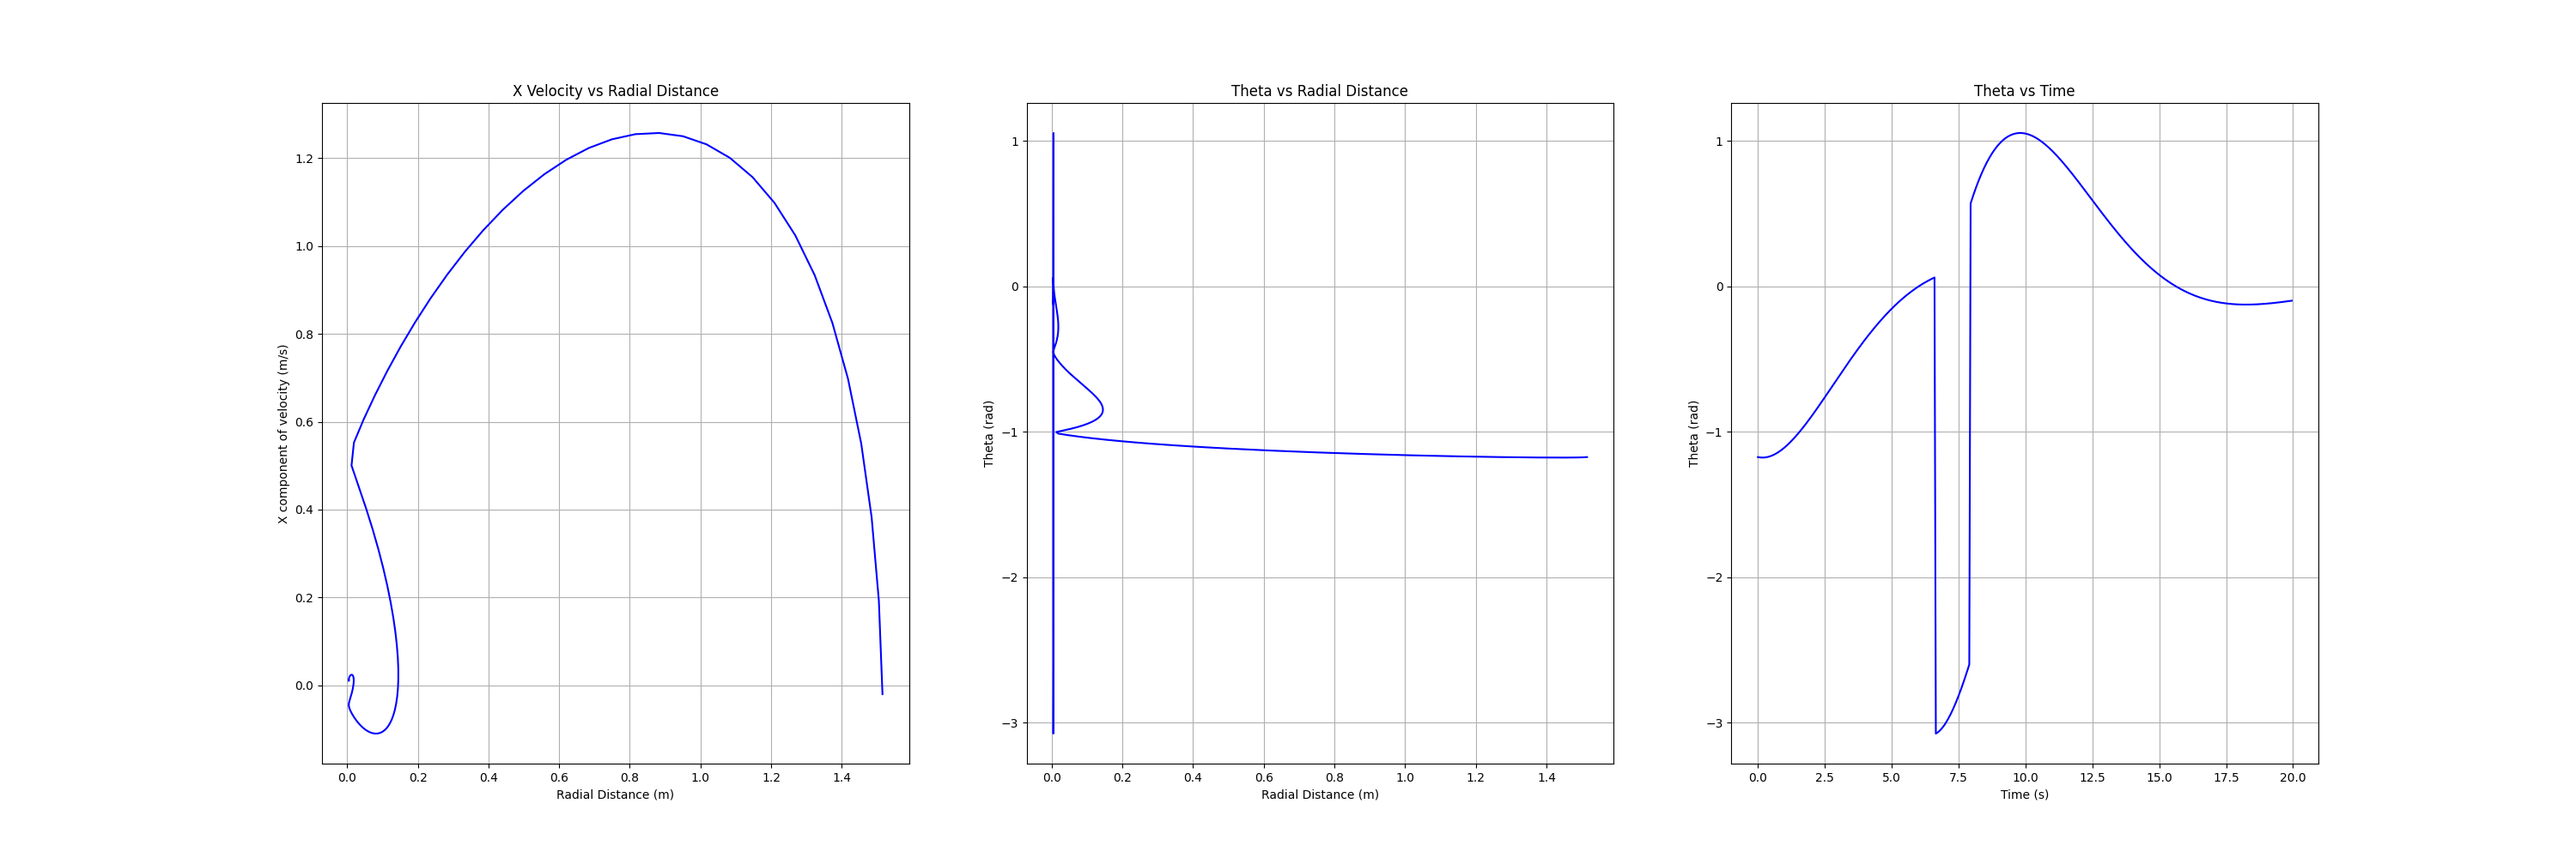
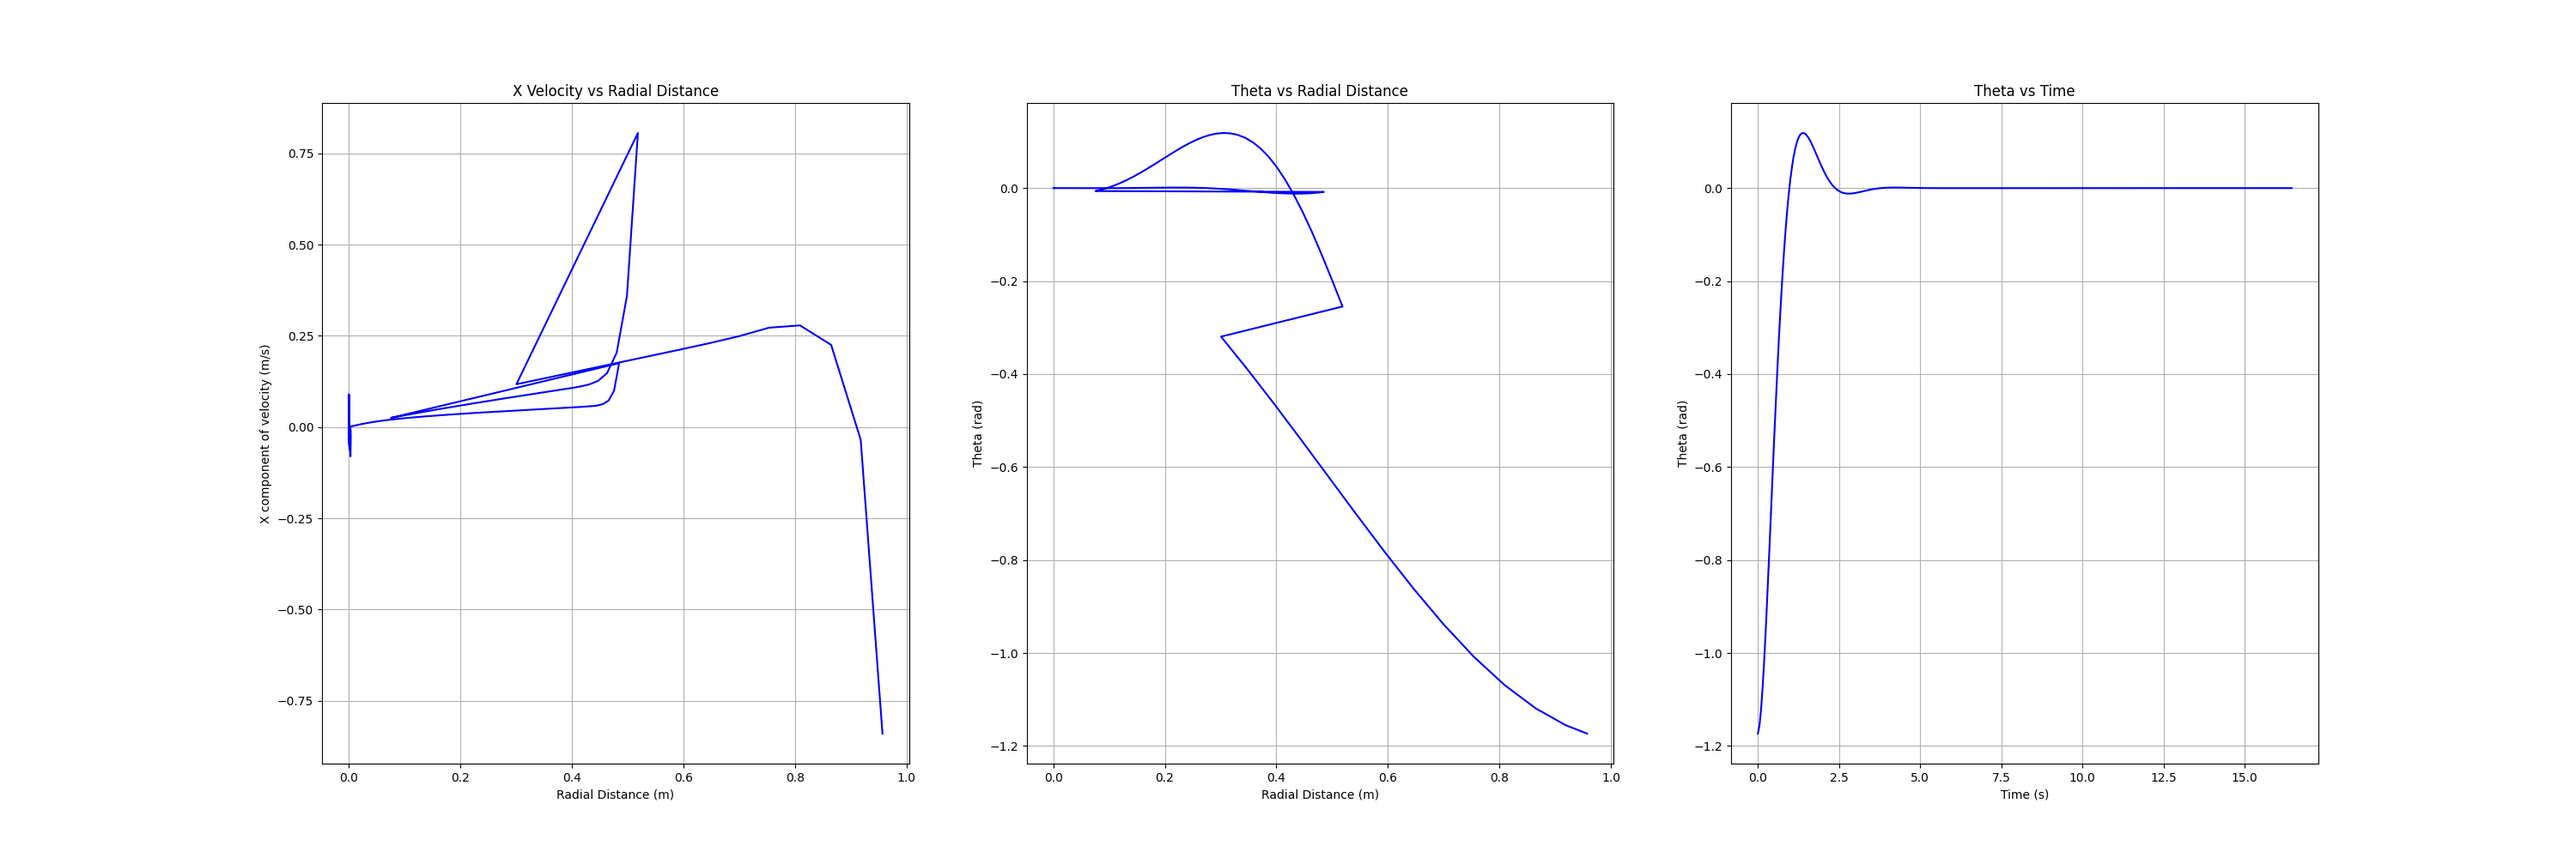
final LEOHAckk

diff --git a/team/team_controller.py b/team/team_controller.py
@@ -1,4 +1,4 @@
-## Controller choice --> 'PID', 'RL'
+## Controller choice --> 'PID', 'RL', 'MPC'
 controller_choice = 'PID'
 
 from sat_controller import SatControllerInterface, sat_msgs
@@ -125,12 +125,12 @@ class TeamController(SatControllerInterface):
         ### Control     U = [F_x, F_y, tau]
 
         # Gain Dims = [6 states x 3 outputs]
-        K_P = np.array([[-3, 0, 0, -2, 0, 0],           [0, -3, 0, 0, -2, 0],               [0, 0, -0.2, 0, 0, -0.5]])
-        K_I = np.array([[0.001, 0, 0, 0.001, 0, 0],     [0, 0.001, 0, 0, 0.001, 0],         [0, 0, 0, 0, 0, 0]])
-        K_D = np.array([[0, 0, 0, 0, 0, 0],             [0, 0, 0, 0 ,0 ,0],                 [0, 0, 0, 0 ,0 ,0]])
+        K_P = np.array([[-5, 0, 0, -15, 0, 0],          [0, -5, 0, 0, -15, 0],             [0, 0, -7, 0, 0, -3]])
+        K_I = np.array([[-1, 0, 0, -1, 0, 0],         [0, -1, 0, 0, -1, 0],                  [0, 0, 0.0, 0, 0, 0]])
+        K_D = np.array([[0, 0, 0, 0, 0, 0],             [0, 0, 0, 0 , 0, 0],                 [0, 0, 0, 0 ,0 ,0]])
 
         pid_params =  {"p_gain": K_P, "i_gain": K_I, "d_gain": K_D,
-                                "antiwindup": False, "max_error_integral": 1.0}
+                                "antiwindup": True, "max_error_integral": 0.5}
 
         self.controller = PID(pid_params)
         self.dt = 0.05
@@ -180,6 +180,11 @@ class TeamController(SatControllerInterface):
         vy_target       = dead_vy
         omega_target    = dead_omega
 
+        # Distance to dead satellite
+        dist2dead       = np.sqrt( (satellite_state.pose.x - dead_x)**2 + (satellite_state.pose.y - dead_y)**2 )
+
+        # v
+
         # Errors
         x_error         = satellite_state.pose.x        - x_target
         y_error         = satellite_state.pose.y        - y_target        
@@ -194,53 +199,99 @@ class TeamController(SatControllerInterface):
                          f' x_error = {x_error},         y_error = {y_error}'
                          f' vx_error = {vx_error},       vy_error = {vy_error}')
 
-        self.RLstate    = error = np.array([x_error, y_error, theta_error, vx_error, vy_error, omega_error])
-
-        # Controller switch
-        if controller_choice == 'PID':
-            control_actions = self.controller.step(e = error, delta_t = self.dt)
-
-        else:
-            # If using RL, run this
-            control_actions = self.RL_model.run(error)
-
-        # More verbosey stuff!
-        print(f"control action = {control_actions}")
-
-        # Applying the control actions
-        [control.thrust.f_x, control.thrust.f_y, control.thrust.tau] = control_actions
+        error = np.array([x_error, y_error, theta_error, vx_error, vy_error, omega_error])
         
-        # Flags
-        pose_check      = False
-        theta_check     = False
+        # Velocity 
+        satellite_vel = np.sqrt(satellite_state.twist.v_x**2 + satellite_state.twist.v_y **2)
 
-        # Check position tolerance
-        if abs(x_error) < x_tolerance and abs(y_error) < y_tolerance:           
-            pose_check = True
-        else:                                                                   
-            pose_check = False
 
-        # Check angular tolerance
-        if abs(theta_error) < theta_tolerance and abs(omega_error) < omega_tolerance:     
-            theta_check = True
-        else:                                                                   
-            theta_check = False
+        # Ensure that there is n overspeed anywhere - therefore we need to cap the thrust prior to arrival at the keepout zone
+        # Define a keepout 'horizon'? Or a safety margin
 
+        # Find which spatial region the satellite is in ---> Beyond kepout outer, vmax = 1, beyond keepout inner, vmax=1 but slowing to 0.2, or inside keepout, vmax = 0.2
+        
+        sphere_radius = 0.5
+        keepout_dist = 0.5 # Keepout zone margin (beyond the sphere)
+
+
+        if (dist2dead < sphere_radius + keepout_dist + 0.3):
+            if (dist2dead  < sphere_radius + 0.3):               # Inside sphere
+                print(f"inside_sphere")
+                target_v = 0.05
+                x_target = x_target
+                x_setpoints = np.linspace(satellite_state.pose.x, x_target, num=10)             # Define x_target above
+
+                y_target = y_target
+                y_setpoints = np.linspace(satellite_state.pose.y, y_target, num=10)             # Define y_target above
+
+            else:  
+                print(f"in keepout dist")
+                target_v = 0.2                 # Keepout inner
+                x_target = x_target + sphere_radius * np.cos(dead_theta - np.pi / 2)
+                x_setpoints = np.linspace(satellite_state.pose.x, x_target, num=10)             # Define x_target above 
+
+                y_target = y_target + sphere_radius * np.sin(dead_theta - np.pi / 2)
+                y_setpoints = np.linspace(satellite_state.pose.y, y_target, num=10)             # Define y_target above
+
+        else:  
+            print(f"outside shpere")
+            target_v = 1.0                   # Outside keepout outer
+            x_target = x_target + (sphere_radius + keepout_dist) * np.cos(dead_theta - np.pi / 2)
+            x_setpoints = np.linspace(satellite_state.pose.x, x_target, num=10)             # Define x_target above 
+
+            y_target = y_target + (sphere_radius + keepout_dist) * np.sin(dead_theta - np.pi / 2)
+            y_setpoints = np.linspace(satellite_state.pose.y, y_target, num=10)             # Define y_target above
+
+
+        # Direction vector from satellite to target
+        direction_vec = np.array([x_target - satellite_state.pose.x, y_target - satellite_state.pose.y])
+        direction_vec = direction_vec / np.linalg.norm(direction_vec)
+
+        target_vx = target_v * direction_vec[0]
+        target_vy = target_v * direction_vec[1]
+
+        print(x_setpoints)
+        print(y_setpoints)
+        # calculate velocity/distance gradient
+        r_target = np.sqrt(x_target**2 + y_target**2)
+        # grad = (target_v - satellite_vel) / (dist2dead - r_target)
+        # print(f'grad:{grad}')
+
+
+        # Find sequence of x, vx setpoints that follow the trajectory modelled by the gradient in v/x space starting at the current satellite position - make it relative to the dead satellite position
+        x_setpoints = np.linspace(satellite_state.pose.x, x_target, num=10)[8]             # Define x_target above
+        y_setpoints = np.linspace(satellite_state.pose.y, y_target, num=10)[8]             # Define x_target above
+        
+        vx_setpoints = np.linspace(satellite_state.twist.v_x, target_vx, num=10)[8]        # Define target_v above
+        vy_setpoints = np.linspace(satellite_state.twist.v_y, target_vy, num=10)[8]        # Define target_v above
+
+        # PID 
+        # Errors
+        x_error         = satellite_state.pose.x        - x_setpoints
+        y_error         = satellite_state.pose.y        - y_setpoints        
+        theta_error     = satellite_state.pose.theta % (np.pi) - theta_target % (np.pi)
+        
+        vx_error        = satellite_state.twist.v_x     - vx_setpoints
+        vy_error        = satellite_state.twist.v_y     - vy_setpoints
+        omega_error     = satellite_state.twist.omega   - omega_target
+
+        error = np.array([x_error, y_error, theta_error, vx_error, vy_error, omega_error])
+
+        control_actions = self.controller.step(e = error, delta_t = self.dt)
+
+        [control.thrust.f_x, control.thrust.f_y, control.thrust.tau] = control_actions
 
         self.errors = np.vstack((self.errors, error))
-        self.actions = np.vstack((self.actions, control_actions))
+        # self.actions = np.vstack((self.actions, control_actions))
 
-        # # Final post-docking processing
-        # if pose_check and theta_check:      
-        #     print(pose_check, theta_check)
-        #     self.has_docked = True
-
-        if self.counter % 100 == 0:
-            # Matplotlib to plot vy errors vs x errors - both located in self.errors
+        # Matplotlib to plot vy errors vs x errors - both located in self.errors
+        if self.counter % 10 == 0:
             state_space(self.errors)
 
 
         self.prev_time = self.elapsed_time
+
+        print(f"F_x = {control.thrust.f_x}; F_y = {control.thrust.f_y}, Tau = {control.thrust.tau}")
 
         return control
     

diff --git a/team/pid.py b/team/pid.py
@@ -30,7 +30,7 @@ class PID:
         der_term     = np.dot(self.k_d, ((e - self.past_error) / delta_t))
         int_term     = np.dot(self.k_i, self.error_sum)
 
-        print(f"prop_term = {prop_term}\nder_term = {der_term}\nint_term = {int_term}\n")
+       # print(f"prop_term = {prop_term}\nder_term = {der_term}\nint_term = {int_term}\n")
 
         u            = prop_term + der_term + int_term
 
@@ -46,9 +46,13 @@ class PID:
     def antiwindup_measures(self):
 
         # If error changes sign, reset error integral
-        if (self.prev_error_sign is not None) and (self.prev_error_sign != self.error_sign):
-            self.error_sum = 0.0
-
-        # Limits absolute value of error sum to be below the set threshold
-        if (np.abs(self.error_sum) > self.max_error_integral):
-            self.error_sum = self.error_sign * self.max_error_integral
+        # if (self.prev_error_sign is not None) and (self.prev_error_sign != self.error_sign):
+        #     self.error_sum = 0.0
+        if np.all(self.prev_error_sign is not None): #and (self.prev_error_sign != self.error_sign):
+            self.error_sum[self.prev_error_sign != self.error_sign] = 0.0
+            #print(f"Reset_Error - {self.error_sum}")
+        # # Limits absolute value of error sum to be below the set threshold
+        # if (np.abs(self.error_sum) > self.max_error_integral):
+        #     self.error_sum = self.error_sign * self.max_error_integral
+        #if (np.abs(self.error_sum) > self.max_error_integral):
+        self.error_sum[np.abs(self.error_sum) > self.max_error_integral] = (self.error_sign * self.max_error_integral)[[np.abs(self.error_sum) > self.max_error_integral]]

diff --git a/team/MPC.py b/team/MPC.py
@@ -1,0 +1,22 @@
+import numpy as np
+import do_mpc
+
+
+class MPC():
+
+    def __init__(self, type="continuous"):
+        
+        
+        self.model = do_mpc.model.Model(type)
+
+
+        
+        phi = self.model.set_variable(var_type='_x', var_name='phi', shape=(3,1))
+        dphi = self.model.set_variable(var_type='_x', var_name='dphi', shape=(3,1))
+        
+        # Inputs to system
+        phi_input = self.model.set_variable(var_type='_u', var_name='phi_m', shape=(3,1))
+        
+        mass = self.model.set_variable('parameter', 'mass')
+
+        
